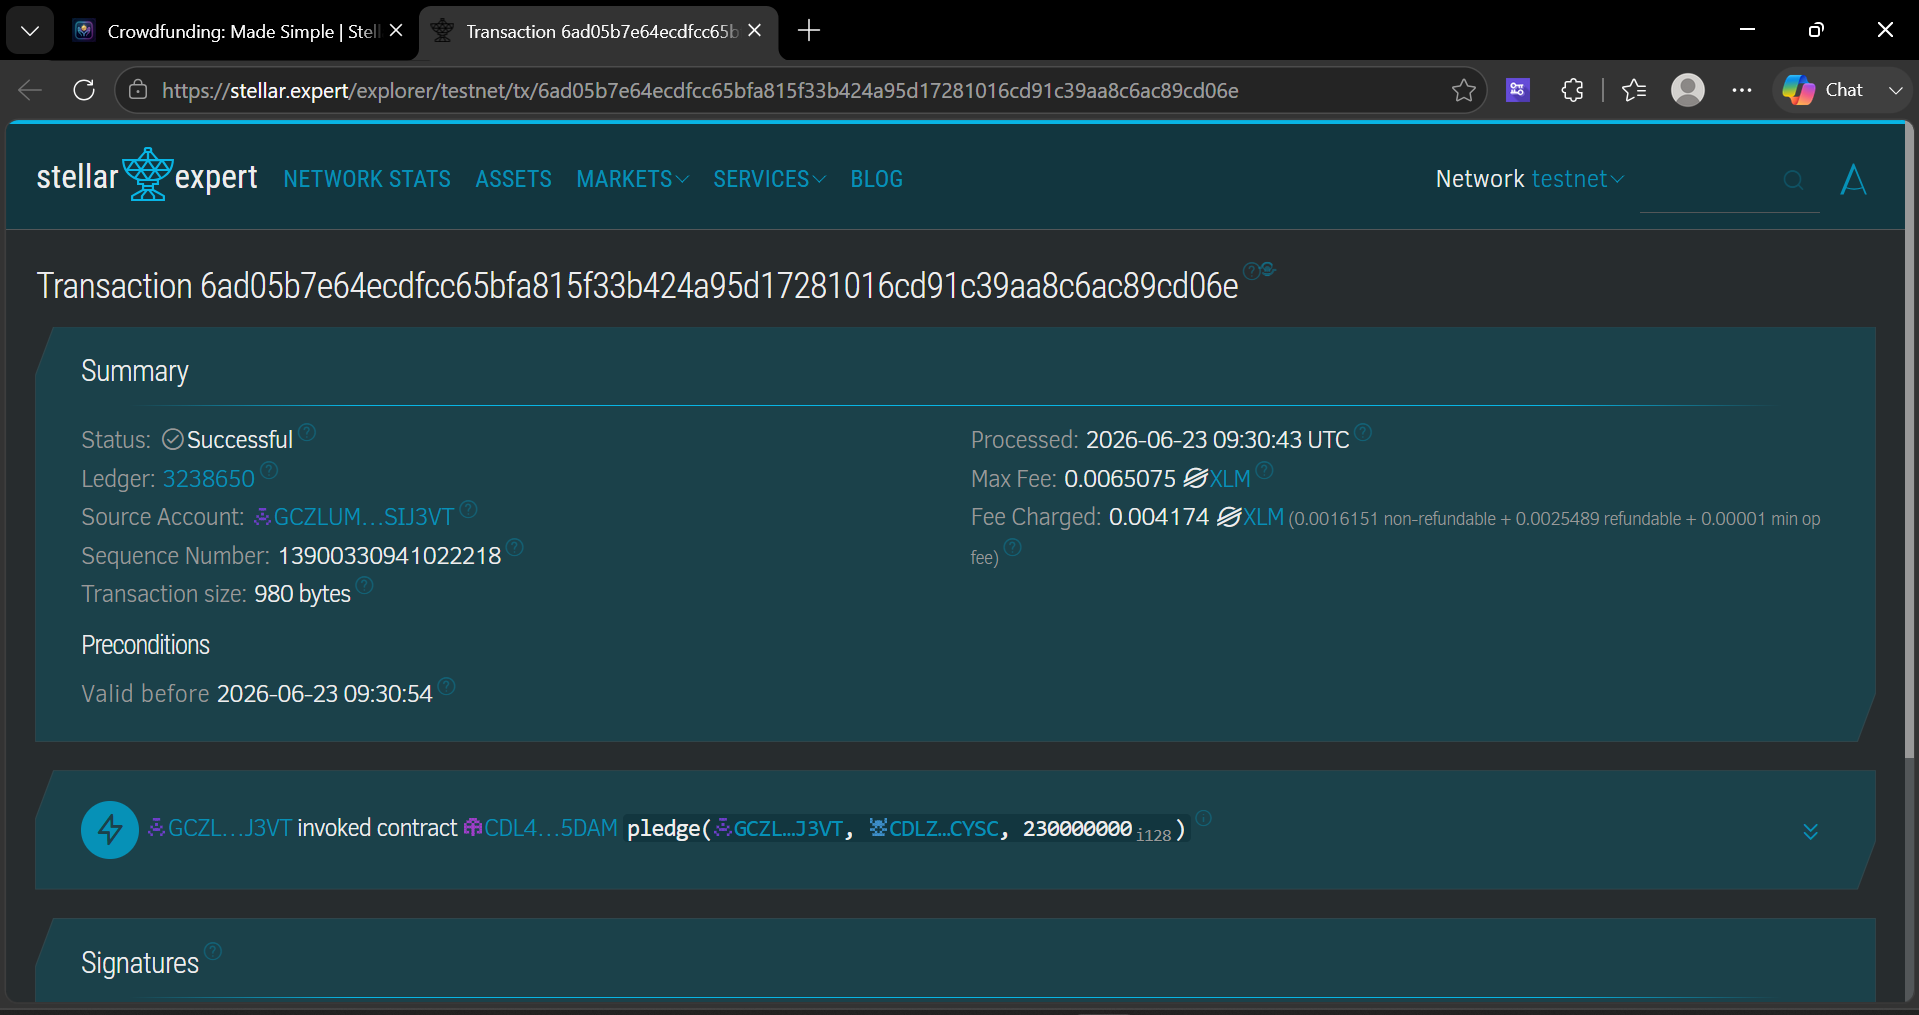
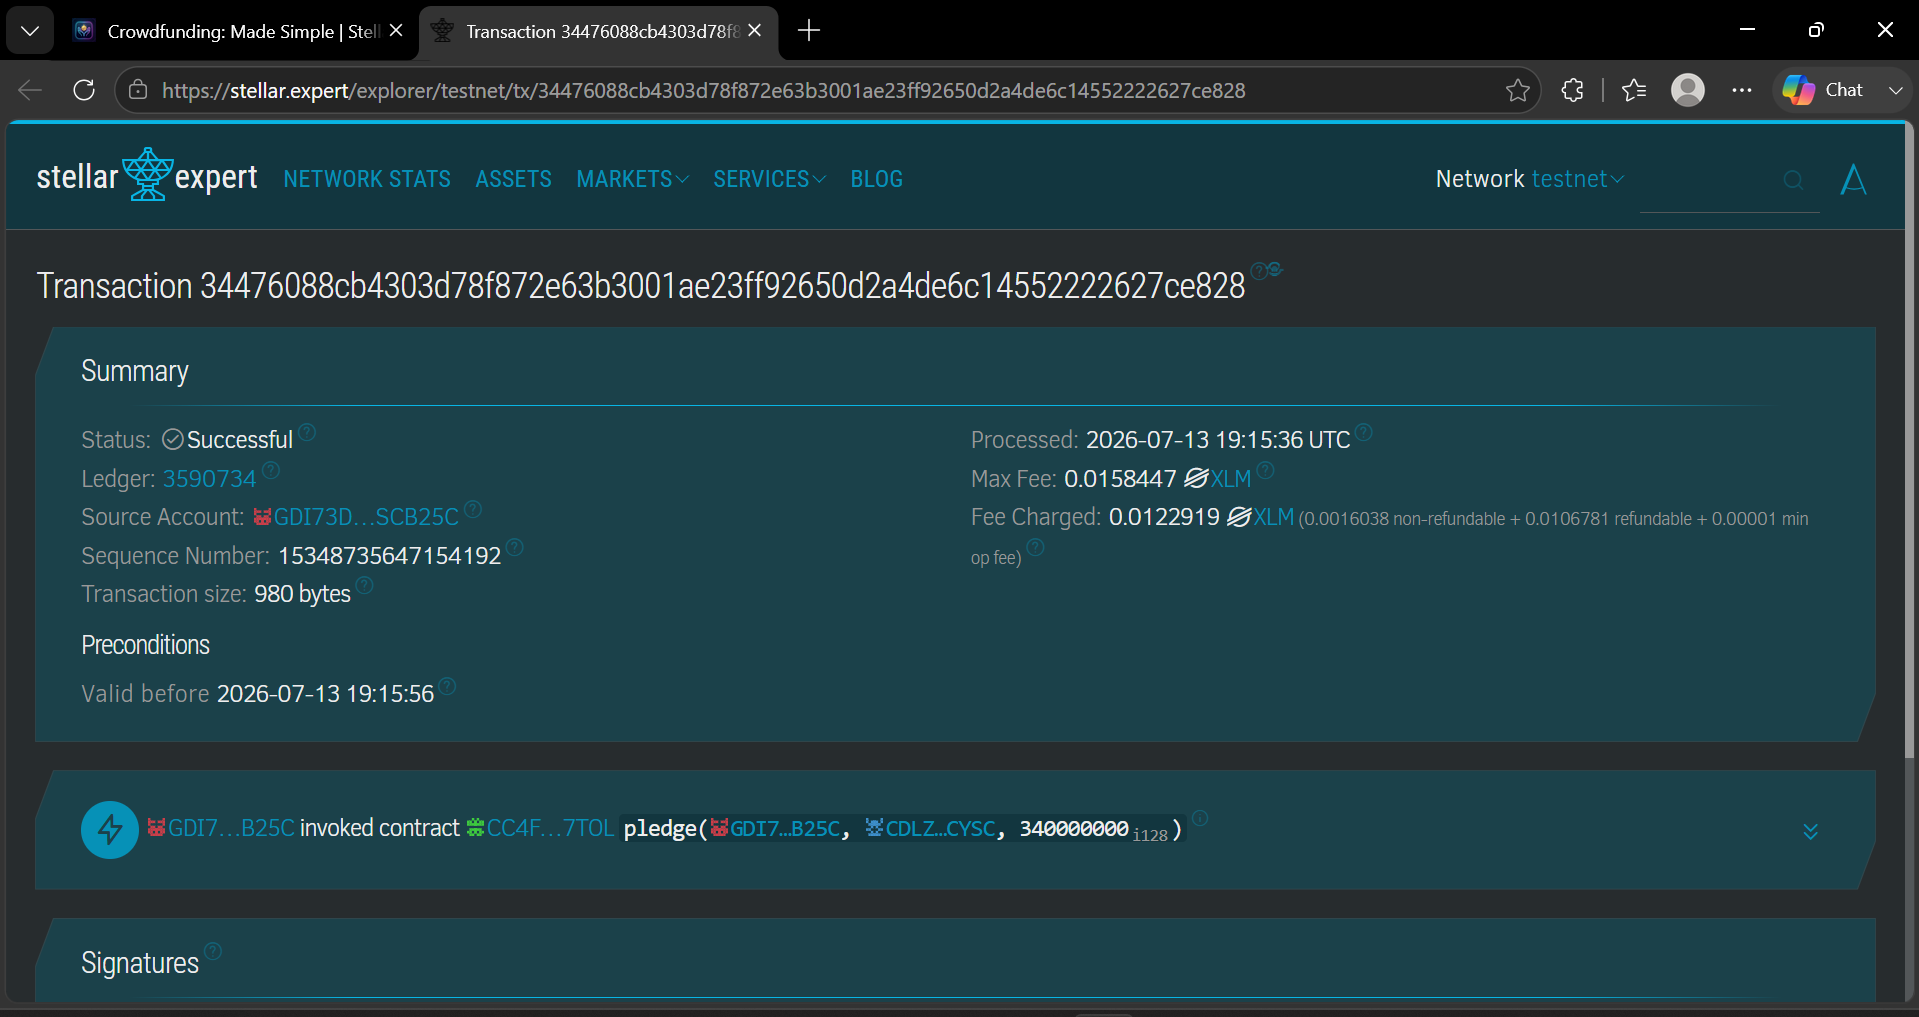
docs: fix image links and remove extra pledge rows

diff --git a/README.md b/README.md
@@ -16,11 +16,11 @@
 
 | Dashboard | Connect Wallet |
 |:---------:|:--------------:|
-| ![Dashboard](./screenshots/product%20ui.png) | ![Connect Wallet](./screenshots/wallet%20option.png) |
+| ![Dashboard](./screenshots/product_ui.png) | ![Connect Wallet](./screenshots/wallet_option.png) |
 
 | Pledge Success | Explorer Verified |
 |:--------------:|:-----------------:|
-| ![Pledge Success](./screenshots/plledged%20succes.png) | ![Explorer Verified](./screenshots/verified.png) |
+| ![Pledge Success](./screenshots/pledged_success.png) | ![Explorer Verified](./screenshots/verified.png) |
 
 ---
 
@@ -69,8 +69,6 @@ These are real, on-chain invocations of the `pledge()` function on this contract
 | # | Transaction Hash | Explorer Link |
 |---|------------------|---------------|
[1 lines of base64/hex data omitted]
-| 2 | `[Optional second pledge hash]` | [View on Stellar Expert ↗](#) |
-| 3 | `[Optional third pledge hash]` | [View on Stellar Expert ↗](#) |
 
 ---
 
@@ -78,7 +76,7 @@ These are real, on-chain invocations of the `pledge()` function on this contract
 
 The app supports multiple wallets via the connect modal:
 
-![Wallet Options](./screenshots/wallet%20option.png)
+![Wallet Options](./screenshots/wallet_option.png)
 
 ### Contract Functions
 